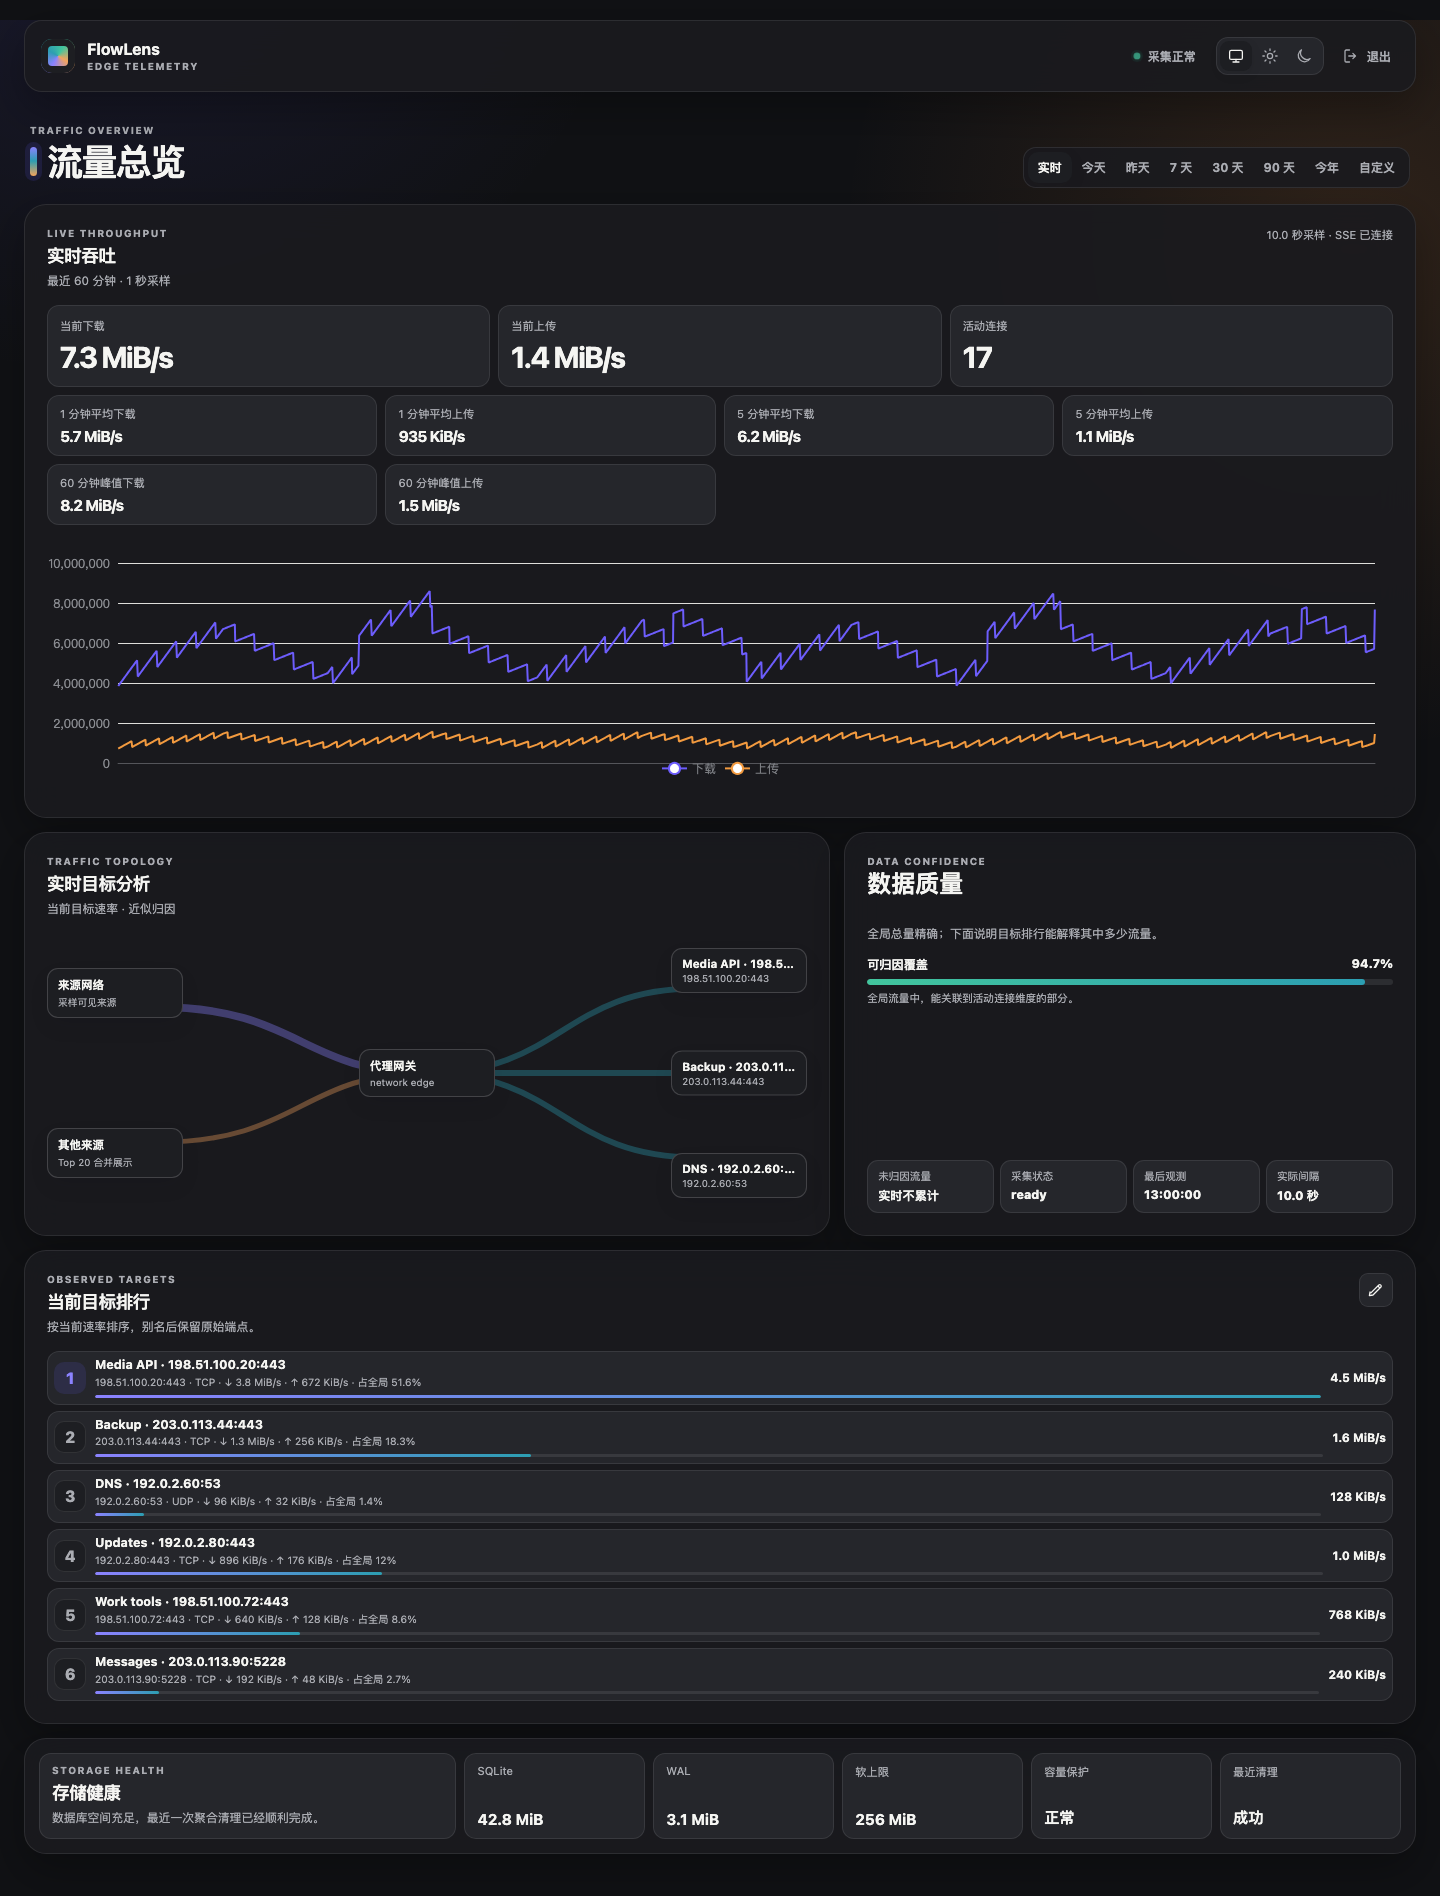
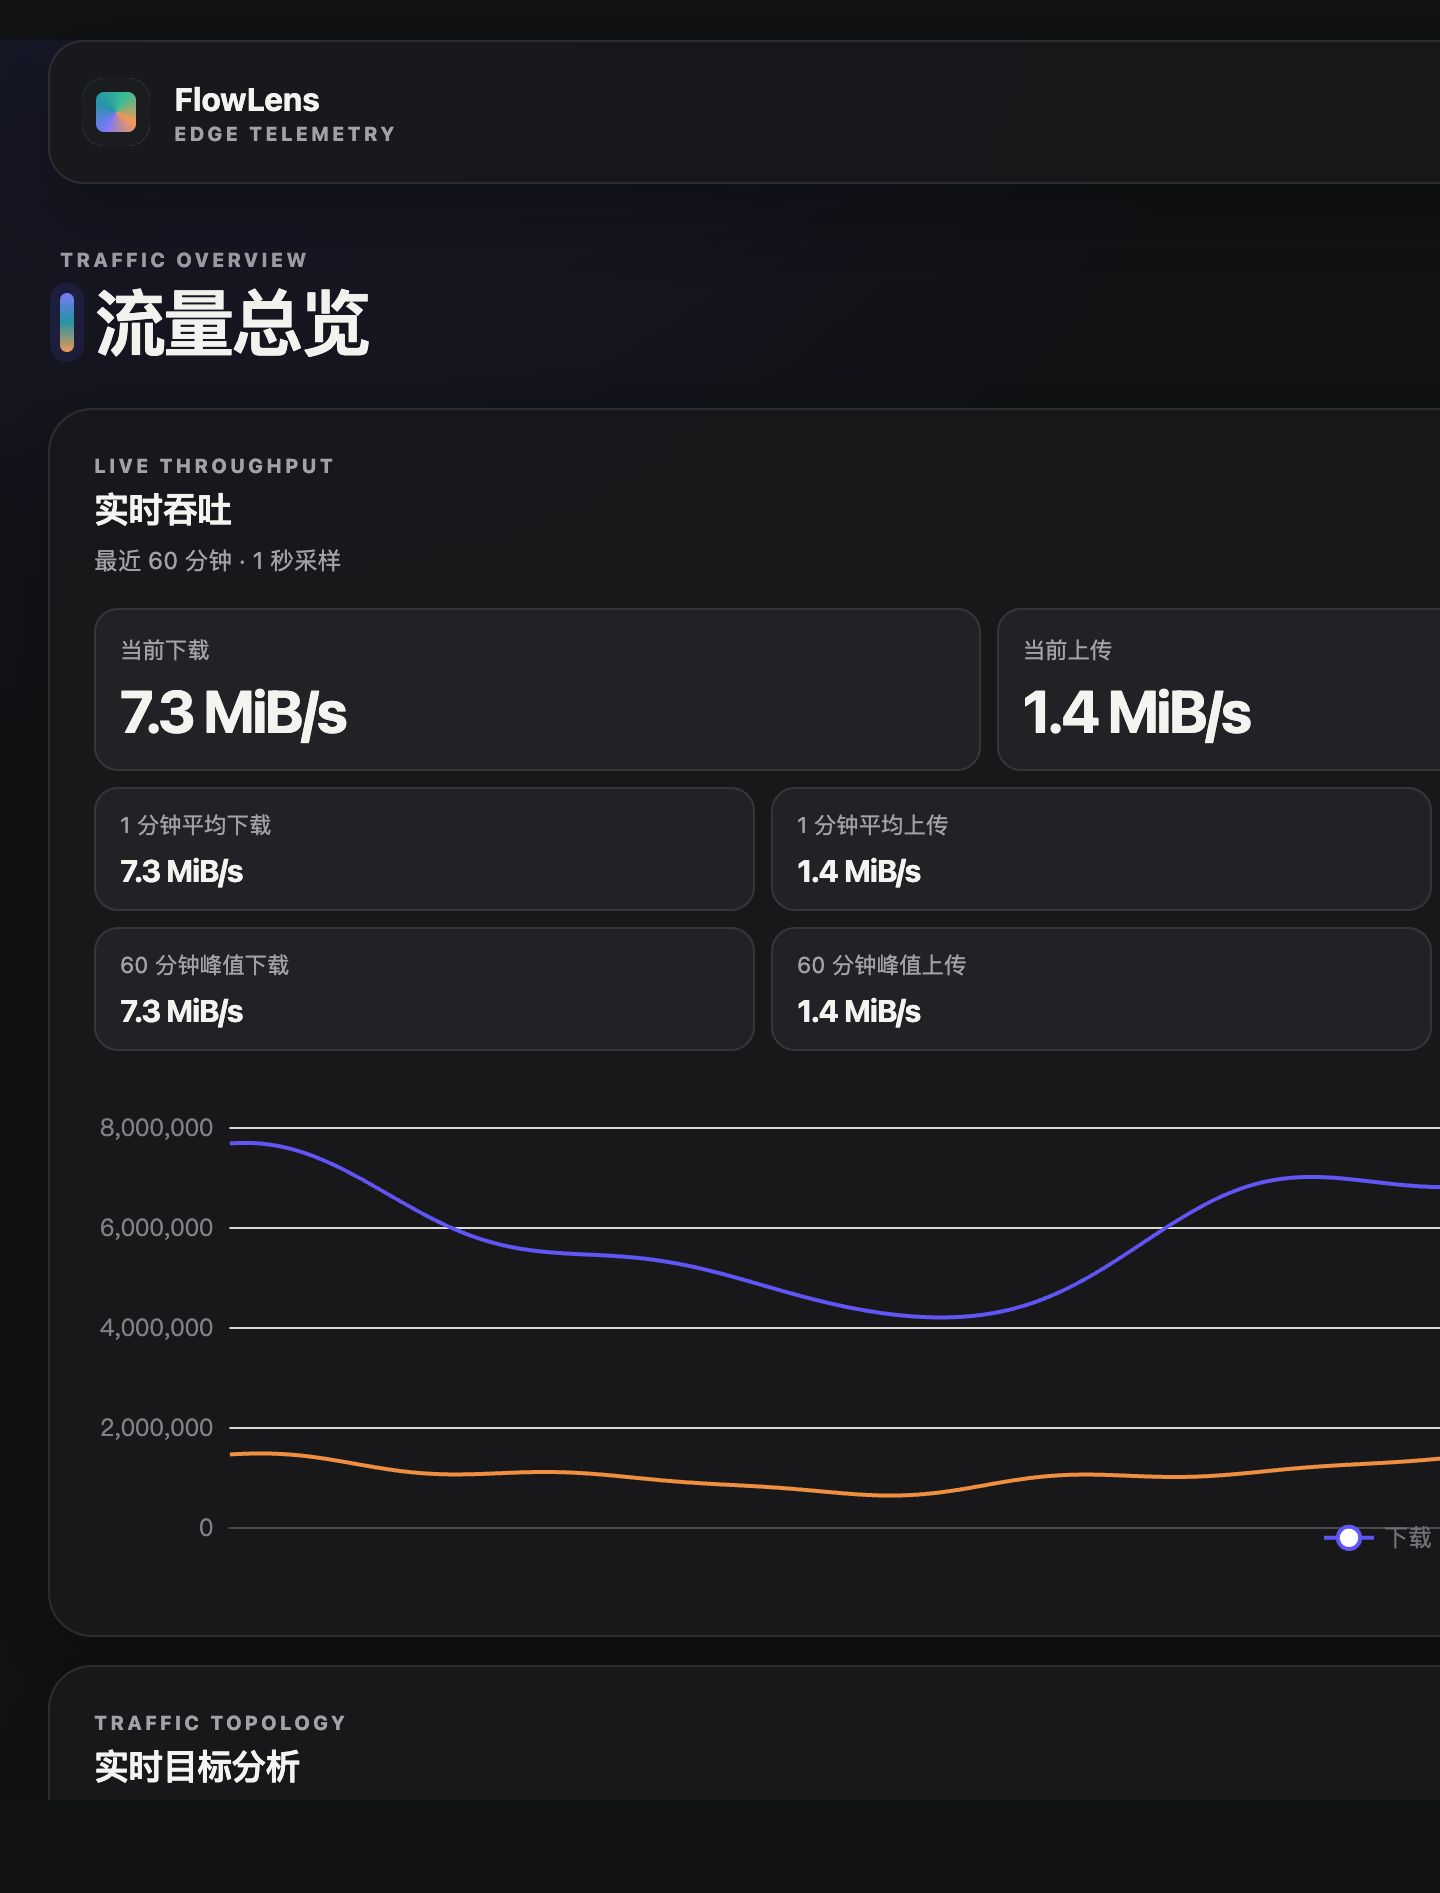
fix: smooth traffic curves

diff --git a/web/src/features/traffic/test/TrafficChart.test.tsx b/web/src/features/traffic/test/TrafficChart.test.tsx
@@ -1,0 +1,123 @@
+import { render, waitFor } from "@testing-library/react";
+import type { ByteString } from "../../../api/contracts";
+import type { HistoricalChartPoint } from "../../history/model";
+import { TrafficChart } from "../TrafficChart";
+
+const chart = vi.hoisted(() => ({
+  setOption: vi.fn(),
+  resize: vi.fn(),
+  dispose: vi.fn(),
+}));
+
+vi.mock("echarts/core", () => ({
+  init: vi.fn(() => chart),
+  use: vi.fn(),
+}));
+vi.mock("echarts/charts", () => ({ BarChart: {}, LineChart: {} }));
+vi.mock("echarts/components", () => ({
+  GridComponent: {},
+  LegendComponent: {},
+  TooltipComponent: {},
+}));
+vi.mock("echarts/renderers", () => ({ SVGRenderer: {} }));
+
+describe("TrafficChart", () => {
+  beforeAll(() => {
+    Object.defineProperty(HTMLDivElement.prototype, "clientWidth", {
+      configurable: true,
+      get: () => 800,
+    });
+    vi.stubGlobal(
+      "matchMedia",
+      vi.fn(
+        (media: string): MediaQueryList => ({
+          matches: false,
+          media,
+          onchange: null,
+          addListener: vi.fn(),
+          removeListener: vi.fn(),
+          addEventListener: vi.fn(),
+          removeEventListener: vi.fn(),
+          dispatchEvent: vi.fn(),
+        }),
+      ),
+    );
+  });
+
+  beforeEach(() => {
+    chart.setOption.mockClear();
+  });
+
+  afterAll(() => {
+    Reflect.deleteProperty(HTMLDivElement.prototype, "clientWidth");
+    vi.unstubAllGlobals();
+  });
+
+  it("renders live speed as smooth monotone curves without bridging gaps", async () => {
+    render(
+      <TrafficChart
+        mode="live"
+        live={[
+          { timestamp: 1, upload: 1, download: 2 },
+          { timestamp: 2, upload: null, download: null },
+          { timestamp: 3, upload: 3, download: 5 },
+        ]}
+      />,
+    );
+    await waitFor(() => expect(chart.setOption).toHaveBeenCalledOnce());
+
+    const option = chart.setOption.mock.calls[0]![0] as {
+      series: Array<Record<string, unknown>>;
+    };
+    expect(option.series).toEqual([
+      expect.objectContaining({
+        name: "下载",
+        smooth: 0.45,
+        smoothMonotone: "x",
+        connectNulls: false,
+      }),
+      expect.objectContaining({
+        name: "上传",
+        smooth: 0.45,
+        smoothMonotone: "x",
+        connectNulls: false,
+      }),
+    ]);
+  });
+
+  it("smooths historical speed but leaves cumulative traffic unsmoothed", async () => {
+    const history: HistoricalChartPoint[] = [
+      {
+        start: 1,
+        end: 2,
+        upload: "1" as ByteString,
+        download: "2" as ByteString,
+        cumulative: "3" as ByteString,
+        uploadRate: 1,
+        downloadRate: 2,
+        resolution: 1,
+      },
+    ];
+    const { rerender } = render(
+      <TrafficChart mode="history" historyView="speed" history={history} />,
+    );
+    await waitFor(() => expect(chart.setOption).toHaveBeenCalledOnce());
+
+    const speed = chart.setOption.mock.calls.at(-1)![0] as {
+      series: Array<Record<string, unknown>>;
+    };
+    expect(speed.series).toEqual([
+      expect.objectContaining({ smooth: 0.45, smoothMonotone: "x" }),
+      expect.objectContaining({ smooth: 0.45, smoothMonotone: "x" }),
+    ]);
+
+    rerender(
+      <TrafficChart mode="history" historyView="traffic" history={history} />,
+    );
+    await waitFor(() => expect(chart.setOption).toHaveBeenCalledTimes(2));
+    const traffic = chart.setOption.mock.calls.at(-1)![0] as {
+      series: Array<Record<string, unknown>>;
+    };
+    expect(traffic.series[2]).not.toHaveProperty("smooth");
+  });
+});

diff --git a/web/src/demo/test/source.test.ts b/web/src/demo/test/source.test.ts
@@ -1,6 +1,34 @@
 import { DemoDataSource, DemoReadOnlyError } from "../source";
+import { generateLiveSamples } from "../mock-history";
 
 describe("DemoDataSource", () => {
+  it("generates continuous live traffic without sawtooth resets", () => {
+    const samples = generateLiveSamples(1_800_000_000);
+    const uploadSteps = samples
+      .slice(1)
+      .map((sample, index) =>
+        Math.abs(
+          sample.upload_bytes_per_second -
+            samples[index]!.upload_bytes_per_second,
+        ),
+      );
+    const downloadSteps = samples
+      .slice(1)
+      .map((sample, index) =>
+        Math.abs(
+          sample.download_bytes_per_second -
+            samples[index]!.download_bytes_per_second,
+        ),
+      );
+
+    expect(Math.max(...uploadSteps)).toBeLessThan(4_000);
+    expect(Math.max(...downloadSteps)).toBeLessThan(10_000);
+    expect(samples.at(-1)).toMatchObject({
+      upload_bytes_per_second: 1_450_000,
+      download_bytes_per_second: 7_670_000,
+    });
+  });
+
   it("is deterministic and never touches production networking", async () => {
     const fetchTrap = vi
       .spyOn(globalThis, "fetch")

diff --git a/web/src/demo/mock-history.ts b/web/src/demo/mock-history.ts
@@ -91,24 +91,26 @@ export function mockHistory(range: HistoricalRange, now: number): MockHistory {
 
 export function generateLiveSamples(now: number): LiveSampleResponse[] {
   return Array.from({ length: 3600 }, (_, index) => {
-    const cycle = index % 600;
-    const triangle = cycle <= 300 ? cycle : 600 - cycle;
-    const eveningBurst = index % 900 >= 690 ? 1_450_000 : 0;
+    const progress = index / 3599;
+    const angle = progress * Math.PI * 2;
     const sample: LiveSampleResponse = {
       timestamp: now - 3599 + index,
-      upload_bytes_per_second:
-        720_000 + triangle * 1_800 + ((index * 7_919) % 310_000),
-      download_bytes_per_second:
-        3_850_000 +
-        triangle * 8_400 +
-        ((index * 15_407) % 860_000) +
-        eveningBurst,
+      upload_bytes_per_second: Math.round(
+        1_050_000 +
+          Math.sin(angle * 2 + Math.PI / 2) * 300_000 +
+          Math.sin(angle * 6 + Math.PI / 2) * 100_000 +
+          Math.sin(angle * 10) * 50_000,
+      ),
+      download_bytes_per_second: Math.round(
+        5_800_000 +
+          Math.sin(angle * 2 + Math.PI / 2) * 1_450_000 +
+          Math.sin(angle * 5 + Math.PI / 2) * 420_000 +
+          Math.sin(angle * 8) * 80_000,
+      ),
       active_connections: 11 + ((index * 7 + Math.floor(index / 60)) % 18),
       status: index >= 1710 && index < 1722 ? "degraded" : "ok",
     };
     if (index === 3599) {
-      sample.upload_bytes_per_second = 1_450_000;
-      sample.download_bytes_per_second = 7_670_000;
       sample.active_connections = 17;
     }
     return sample;

diff --git a/web/src/features/traffic/TrafficChart.tsx b/web/src/features/traffic/TrafficChart.tsx
@@ -60,6 +60,8 @@ export function TrafficChart({
                 name: "下载",
                 type: "line",
                 showSymbol: false,
+                smooth: 0.45,
+                smoothMonotone: "x",
                 connectNulls: false,
                 data: live.map((point) => point.download),
               },
@@ -67,6 +69,8 @@ export function TrafficChart({
                 name: "上传",
                 type: "line",
                 showSymbol: false,
+                smooth: 0.45,
+                smoothMonotone: "x",
                 connectNulls: false,
                 data: live.map((point) => point.upload),
               },
@@ -77,12 +81,18 @@ export function TrafficChart({
                   name: "平均下载",
                   type: "line",
                   showSymbol: false,
+                  smooth: 0.45,
+                  smoothMonotone: "x",
+                  connectNulls: false,
                   data: history.map((point) => point.downloadRate),
                 },
                 {
                   name: "平均上传",
                   type: "line",
                   showSymbol: false,
+                  smooth: 0.45,
+                  smoothMonotone: "x",
+                  connectNulls: false,
                   data: history.map((point) => point.uploadRate),
                 },
               ]